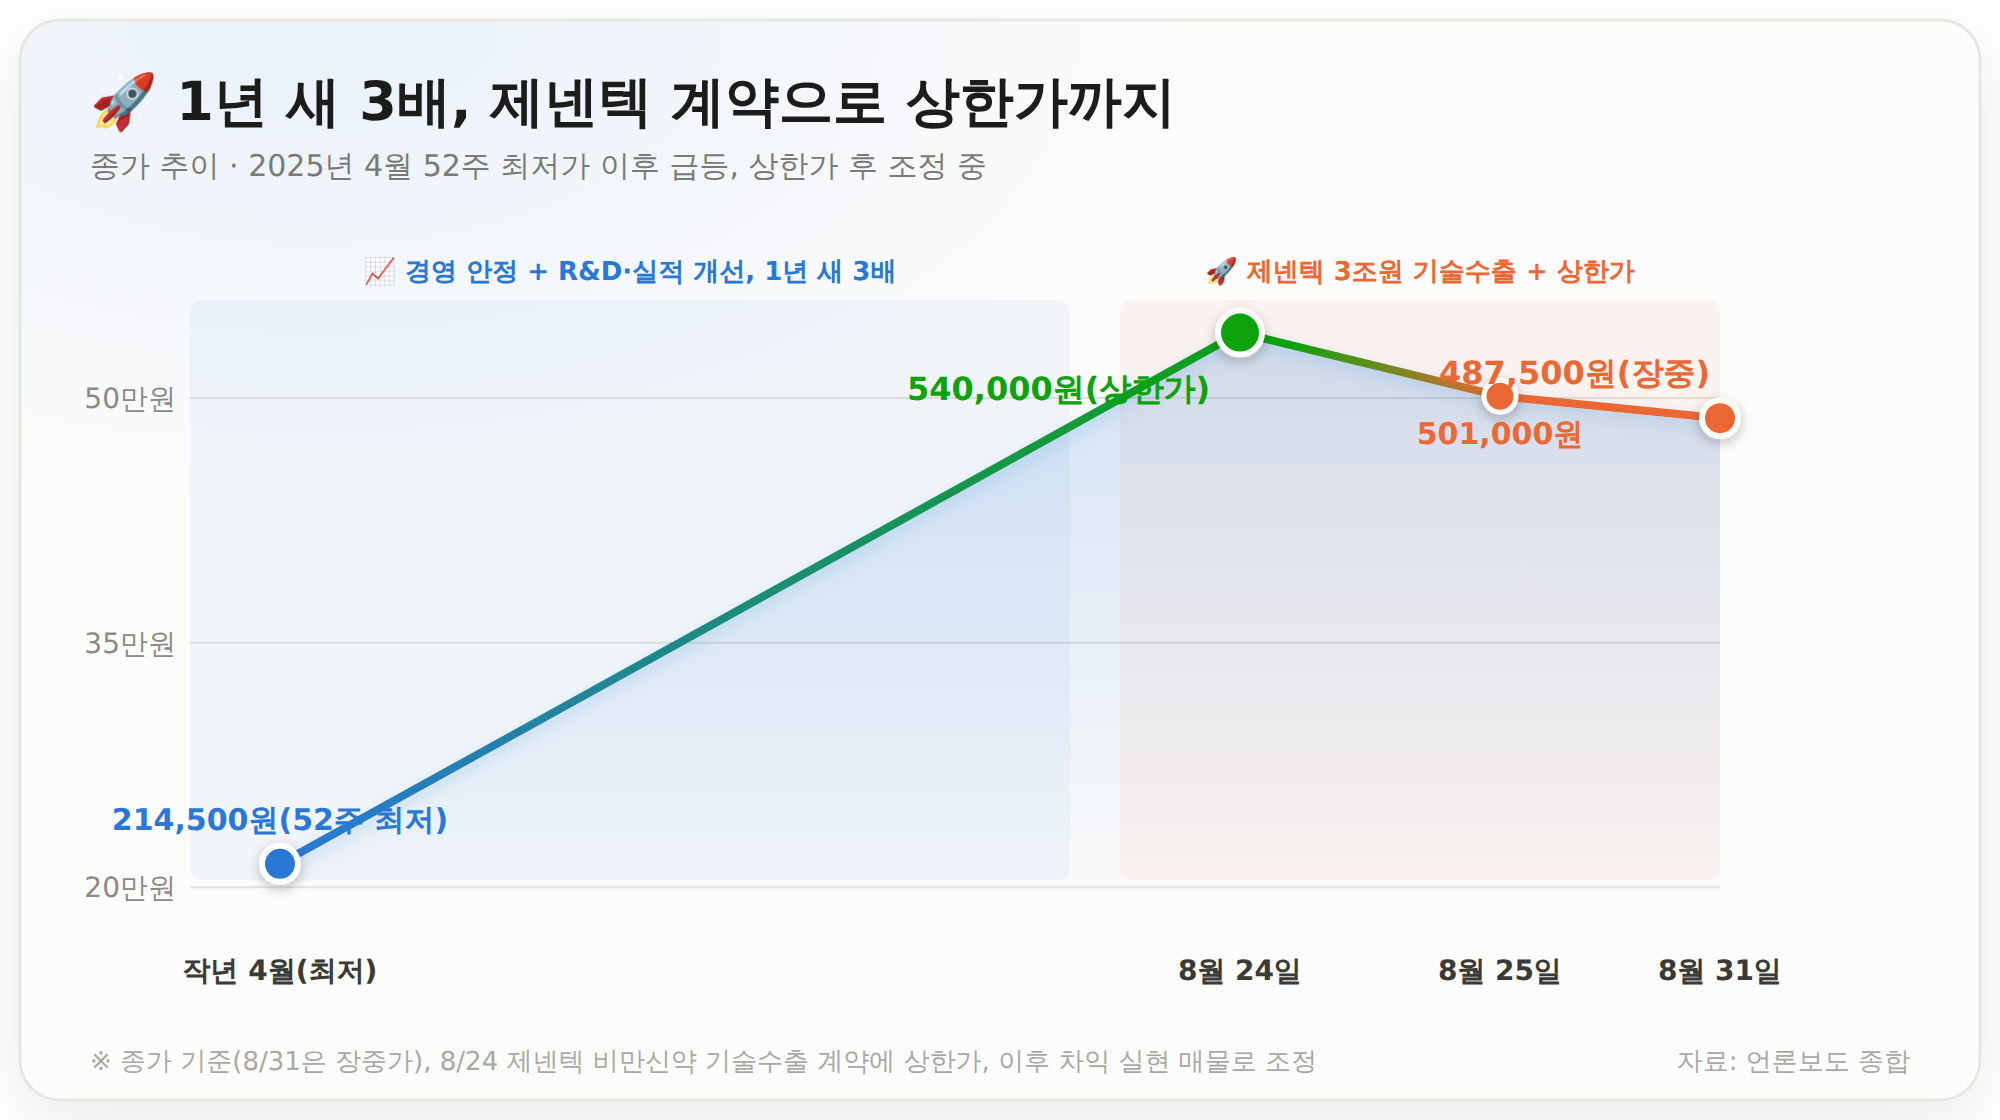
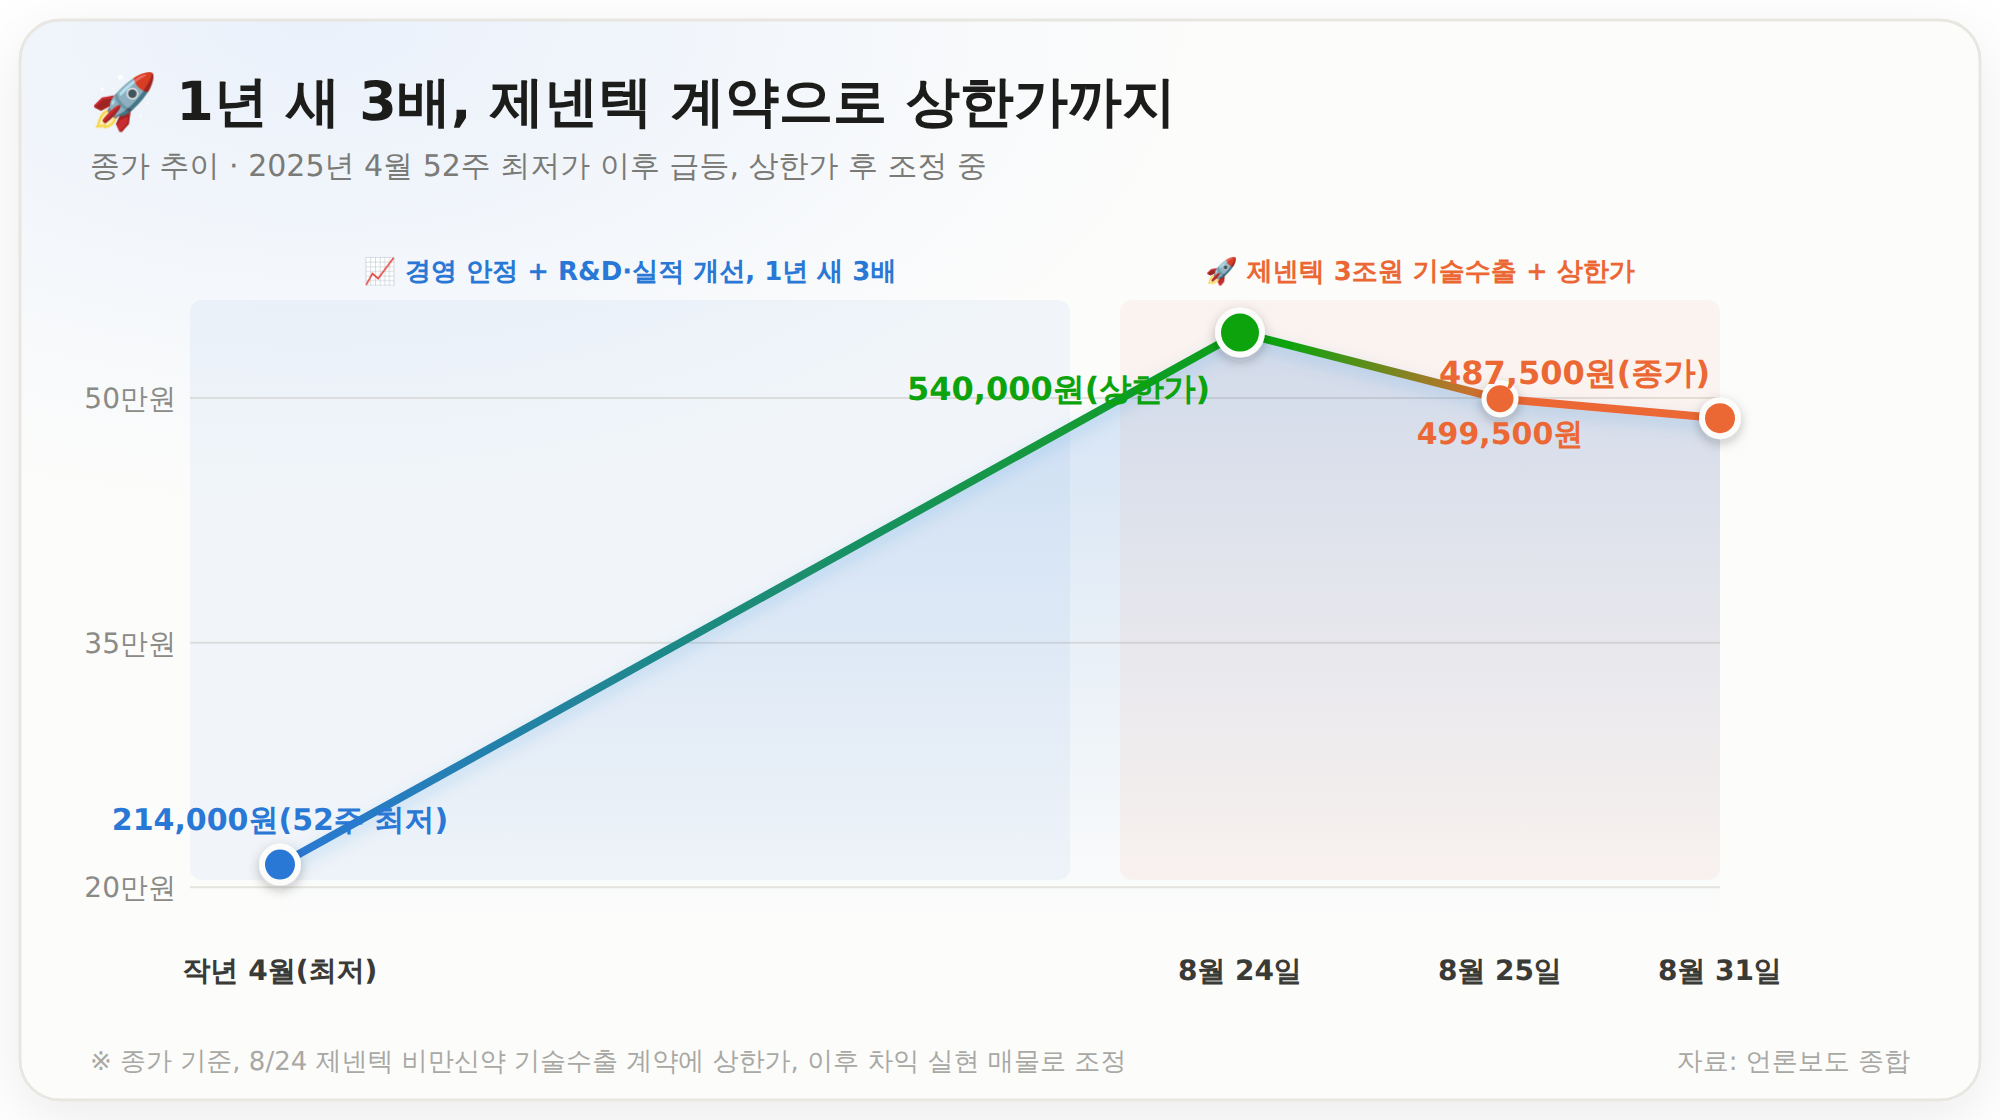
fix: 한미약품 일별 종가 정정 - 사용자 제보 실측치 반영
- 작년 4월 52주 최저가 214,500원→214,000원
- 8/25 종가 501,000원→499,500원(-7.5%)
- 8/31 487,500원을 장중가→종가로 정정(-2.4%)
- 가격추이 차트 재생성

diff --git a/src/App.tsx b/src/App.tsx
@@ -19,7 +19,7 @@ const samplePosts: Post[] = [
 
 안녕하세요 대왕토끼입니다~ 🐰
 
-![한미약품 주식분석 커버 이미지 - 1년 새 3배 제넨텍 3조원 기술수출까지 겹친 이유, 2026년 2분기 영업이익 1311억원 전년比 +116.9%, 제넨텍 기술수출 총 3조1892억원 계약금 2629억원, 8월31일 장중가 487,500원 목표주가 평균 73.7만원](/images/hanmipharm-stock/hanmipharm-cover.png)
+![한미약품 주식분석 커버 이미지 - 1년 새 3배 제넨텍 3조원 기술수출까지 겹친 이유, 2026년 2분기 영업이익 1311억원 전년比 +116.9%, 제넨텍 기술수출 총 3조1892억원 계약금 2629억원, 8월31일 종가 487,500원 목표주가 평균 73.7만원](/images/hanmipharm-stock/hanmipharm-cover.png)
 
 이번 글에서는 국내 대표 제약사 **한미약품**을 분석해보려고 합니다. "왜 이렇게 올랐냐"는 질문을 많이 받는 종목인데, 1년 새 주가가 3배 가까이 오른 데다 최근에는 3조원대 기술수출 소식까지 겹치며 상한가를 기록했어요. 오른 이유를 하나씩 짚어봤습니다.
 
@@ -57,9 +57,9 @@ const samplePosts: Post[] = [
 
 ### ① 1년 새 3배 - R&D·실적·경영 안정 3박자
 
-한미약품 주가는 작년 4월 초 52주 최저가인 214,500원까지 밀린 뒤, 1년 새 3배 가까이 올랐어요. 경영권 분쟁 이후 전문경영인 체제가 안착하며 경영 불확실성이 해소됐고, 여기에 비만치료제 파이프라인에 대한 기대감과 실제 실적 개선이 함께 맞물린 결과라는 분석이에요.
+한미약품 주가는 작년 4월 초 52주 최저가인 214,000원까지 밀린 뒤, 1년 새 3배 가까이 올랐어요. 경영권 분쟁 이후 전문경영인 체제가 안착하며 경영 불확실성이 해소됐고, 여기에 비만치료제 파이프라인에 대한 기대감과 실제 실적 개선이 함께 맞물린 결과라는 분석이에요.
 
-![한미약품 종가 추이 차트 - 작년 4월 52주 최저가 214,500원 이후 1년 새 3배 상승, 8월24일 제넨텍 비만신약 기술수출에 상한가 540,000원(+29.96%), 8월25일 501,000원(-7.22%), 8월31일 장중 487,500원(-4.22%)](/images/hanmipharm-stock/hanmipharm-price-trend.png)
+![한미약품 종가 추이 차트 - 작년 4월 52주 최저가 214,000원 이후 1년 새 3배 상승, 8월24일 제넨텍 비만신약 기술수출에 상한가 540,000원(+29.96%), 8월25일 종가 499,500원(-7.5%), 8월31일 종가 487,500원(-2.4%)](/images/hanmipharm-stock/hanmipharm-price-trend.png)
 
 ### ② 8월 24일, 제넨텍과 3조원대 비만신약 기술수출
 
@@ -74,13 +74,13 @@ HM17321은 기존 GLP-1 계열과 다른 **비인크레틴 계열** 후보물질
 
 ### ③ 상한가 이후, 차익 실현 매물에 조정
 
-다음 날인 8월 25일에는 -7.22% 내린 501,000원으로 마감했고, 8월 31일에는 장중 -4.22% 하락한 487,500원을 나타내는 등 상한가 이후 차익 실현 매물이 나오며 조정을 받고 있어요.
+다음 날인 8월 25일에는 -7.5% 내린 499,500원으로 마감했고, 8월 31일에는 -2.4% 더 하락한 487,500원으로 장을 마치는 등 상한가 이후 차익 실현 매물이 나오며 조정을 받고 있어요.
 
 ---
 
 ## 5. 밸류에이션 - 목표주가와 현재가, 여전히 남은 간격
 
-8월 31일 장중가(487,500원) 기준으로 보면, 제넨텍 계약 이후 상향된 증권사 목표주가와 상당한 괴리가 있어요.
+8월 31일 종가(487,500원) 기준으로 보면, 제넨텍 계약 이후 상향된 증권사 목표주가와 상당한 괴리가 있어요.
 
 | 증권사 | 목표주가 | 비고 |
 | --- | --- | --- |
@@ -92,9 +92,9 @@ HM17321은 기존 GLP-1 계열과 다른 **비인크레틴 계열** 후보물질
 | 메리츠증권 | 71만원 | 상향 |
 | 유안타증권 | 70만원 | 상향 |
 
-![한미약품 목표주가와 현재가 비교 차트 - 8월31일 장중가 487,500원 대비 유안타증권 70만원, 메리츠증권 71만원, DS투자증권 72만원, 미래에셋증권·키움증권 73만원, NH투자증권 76만원, 한국투자증권 81만원으로 목표주가가 모두 현재가를 크게 상회](/images/hanmipharm-stock/hanmipharm-target-price.png)
+![한미약품 목표주가와 현재가 비교 차트 - 8월31일 종가 487,500원 대비 유안타증권 70만원, 메리츠증권 71만원, DS투자증권 72만원, 미래에셋증권·키움증권 73만원, NH투자증권 76만원, 한국투자증권 81만원으로 목표주가가 모두 현재가를 크게 상회](/images/hanmipharm-stock/hanmipharm-target-price.png)
 
-목표주가 평균은 약 73만7,000원으로, 8월 31일 장중가 대비 51% 정도 높은 수준이에요. 대형 기술수출 계약이 확정된 만큼, 앞으로 마일스톤이 실제로 얼마나, 언제 유입되는지가 이 괴리를 좁히는 핵심 변수가 될 것으로 보여요.
+목표주가 평균은 약 73만7,000원으로, 8월 31일 종가 대비 51% 정도 높은 수준이에요. 대형 기술수출 계약이 확정된 만큼, 앞으로 마일스톤이 실제로 얼마나, 언제 유입되는지가 이 괴리를 좁히는 핵심 변수가 될 것으로 보여요.
 
 ---
 

diff --git a/posts/stock/hanmipharm-analysis.md b/posts/stock/hanmipharm-analysis.md
@@ -10,7 +10,7 @@ naverCategory: "국내주식"
 
 안녕하세요 대왕토끼입니다~ 🐰
 
-![한미약품 주식분석 커버 이미지 - 1년 새 3배 제넨텍 3조원 기술수출까지 겹친 이유, 2026년 2분기 영업이익 1311억원 전년比 +116.9%, 제넨텍 기술수출 총 3조1892억원 계약금 2629억원, 8월31일 장중가 487,500원 목표주가 평균 73.7만원](/images/hanmipharm-stock/hanmipharm-cover.png)
+![한미약품 주식분석 커버 이미지 - 1년 새 3배 제넨텍 3조원 기술수출까지 겹친 이유, 2026년 2분기 영업이익 1311억원 전년比 +116.9%, 제넨텍 기술수출 총 3조1892억원 계약금 2629억원, 8월31일 종가 487,500원 목표주가 평균 73.7만원](/images/hanmipharm-stock/hanmipharm-cover.png)
 
 이번 글에서는 국내 대표 제약사 **한미약품**을 분석해보려고 합니다. "왜 이렇게 올랐냐"는 질문을 많이 받는 종목인데, 1년 새 주가가 3배 가까이 오른 데다 최근에는 3조원대 기술수출 소식까지 겹치며 상한가를 기록했어요. 오른 이유를 하나씩 짚어봤습니다.
 
@@ -48,9 +48,9 @@ naverCategory: "국내주식"
 
 ### ① 1년 새 3배 - R&D·실적·경영 안정 3박자
 
-한미약품 주가는 작년 4월 초 52주 최저가인 214,500원까지 밀린 뒤, 1년 새 3배 가까이 올랐어요. 경영권 분쟁 이후 전문경영인 체제가 안착하며 경영 불확실성이 해소됐고, 여기에 비만치료제 파이프라인에 대한 기대감과 실제 실적 개선이 함께 맞물린 결과라는 분석이에요.
+한미약품 주가는 작년 4월 초 52주 최저가인 214,000원까지 밀린 뒤, 1년 새 3배 가까이 올랐어요. 경영권 분쟁 이후 전문경영인 체제가 안착하며 경영 불확실성이 해소됐고, 여기에 비만치료제 파이프라인에 대한 기대감과 실제 실적 개선이 함께 맞물린 결과라는 분석이에요.
 
-![한미약품 종가 추이 차트 - 작년 4월 52주 최저가 214,500원 이후 1년 새 3배 상승, 8월24일 제넨텍 비만신약 기술수출에 상한가 540,000원(+29.96%), 8월25일 501,000원(-7.22%), 8월31일 장중 487,500원(-4.22%)](/images/hanmipharm-stock/hanmipharm-price-trend.png)
+![한미약품 종가 추이 차트 - 작년 4월 52주 최저가 214,000원 이후 1년 새 3배 상승, 8월24일 제넨텍 비만신약 기술수출에 상한가 540,000원(+29.96%), 8월25일 종가 499,500원(-7.5%), 8월31일 종가 487,500원(-2.4%)](/images/hanmipharm-stock/hanmipharm-price-trend.png)
 
 ### ② 8월 24일, 제넨텍과 3조원대 비만신약 기술수출
 
@@ -65,13 +65,13 @@ HM17321은 기존 GLP-1 계열과 다른 **비인크레틴 계열** 후보물질
 
 ### ③ 상한가 이후, 차익 실현 매물에 조정
 
-다음 날인 8월 25일에는 -7.22% 내린 501,000원으로 마감했고, 8월 31일에는 장중 -4.22% 하락한 487,500원을 나타내는 등 상한가 이후 차익 실현 매물이 나오며 조정을 받고 있어요.
+다음 날인 8월 25일에는 -7.5% 내린 499,500원으로 마감했고, 8월 31일에는 -2.4% 더 하락한 487,500원으로 장을 마치는 등 상한가 이후 차익 실현 매물이 나오며 조정을 받고 있어요.
 
 ---
 
 ## 5. 밸류에이션 - 목표주가와 현재가, 여전히 남은 간격
 
-8월 31일 장중가(487,500원) 기준으로 보면, 제넨텍 계약 이후 상향된 증권사 목표주가와 상당한 괴리가 있어요.
+8월 31일 종가(487,500원) 기준으로 보면, 제넨텍 계약 이후 상향된 증권사 목표주가와 상당한 괴리가 있어요.
 
 | 증권사 | 목표주가 | 비고 |
 | --- | --- | --- |
@@ -83,9 +83,9 @@ HM17321은 기존 GLP-1 계열과 다른 **비인크레틴 계열** 후보물질
 | 메리츠증권 | 71만원 | 상향 |
 | 유안타증권 | 70만원 | 상향 |
 
-![한미약품 목표주가와 현재가 비교 차트 - 8월31일 장중가 487,500원 대비 유안타증권 70만원, 메리츠증권 71만원, DS투자증권 72만원, 미래에셋증권·키움증권 73만원, NH투자증권 76만원, 한국투자증권 81만원으로 목표주가가 모두 현재가를 크게 상회](/images/hanmipharm-stock/hanmipharm-target-price.png)
+![한미약품 목표주가와 현재가 비교 차트 - 8월31일 종가 487,500원 대비 유안타증권 70만원, 메리츠증권 71만원, DS투자증권 72만원, 미래에셋증권·키움증권 73만원, NH투자증권 76만원, 한국투자증권 81만원으로 목표주가가 모두 현재가를 크게 상회](/images/hanmipharm-stock/hanmipharm-target-price.png)
 
-목표주가 평균은 약 73만7,000원으로, 8월 31일 장중가 대비 51% 정도 높은 수준이에요. 대형 기술수출 계약이 확정된 만큼, 앞으로 마일스톤이 실제로 얼마나, 언제 유입되는지가 이 괴리를 좁히는 핵심 변수가 될 것으로 보여요.
+목표주가 평균은 약 73만7,000원으로, 8월 31일 종가 대비 51% 정도 높은 수준이에요. 대형 기술수출 계약이 확정된 만큼, 앞으로 마일스톤이 실제로 얼마나, 언제 유입되는지가 이 괴리를 좁히는 핵심 변수가 될 것으로 보여요.
 
 ---
 
